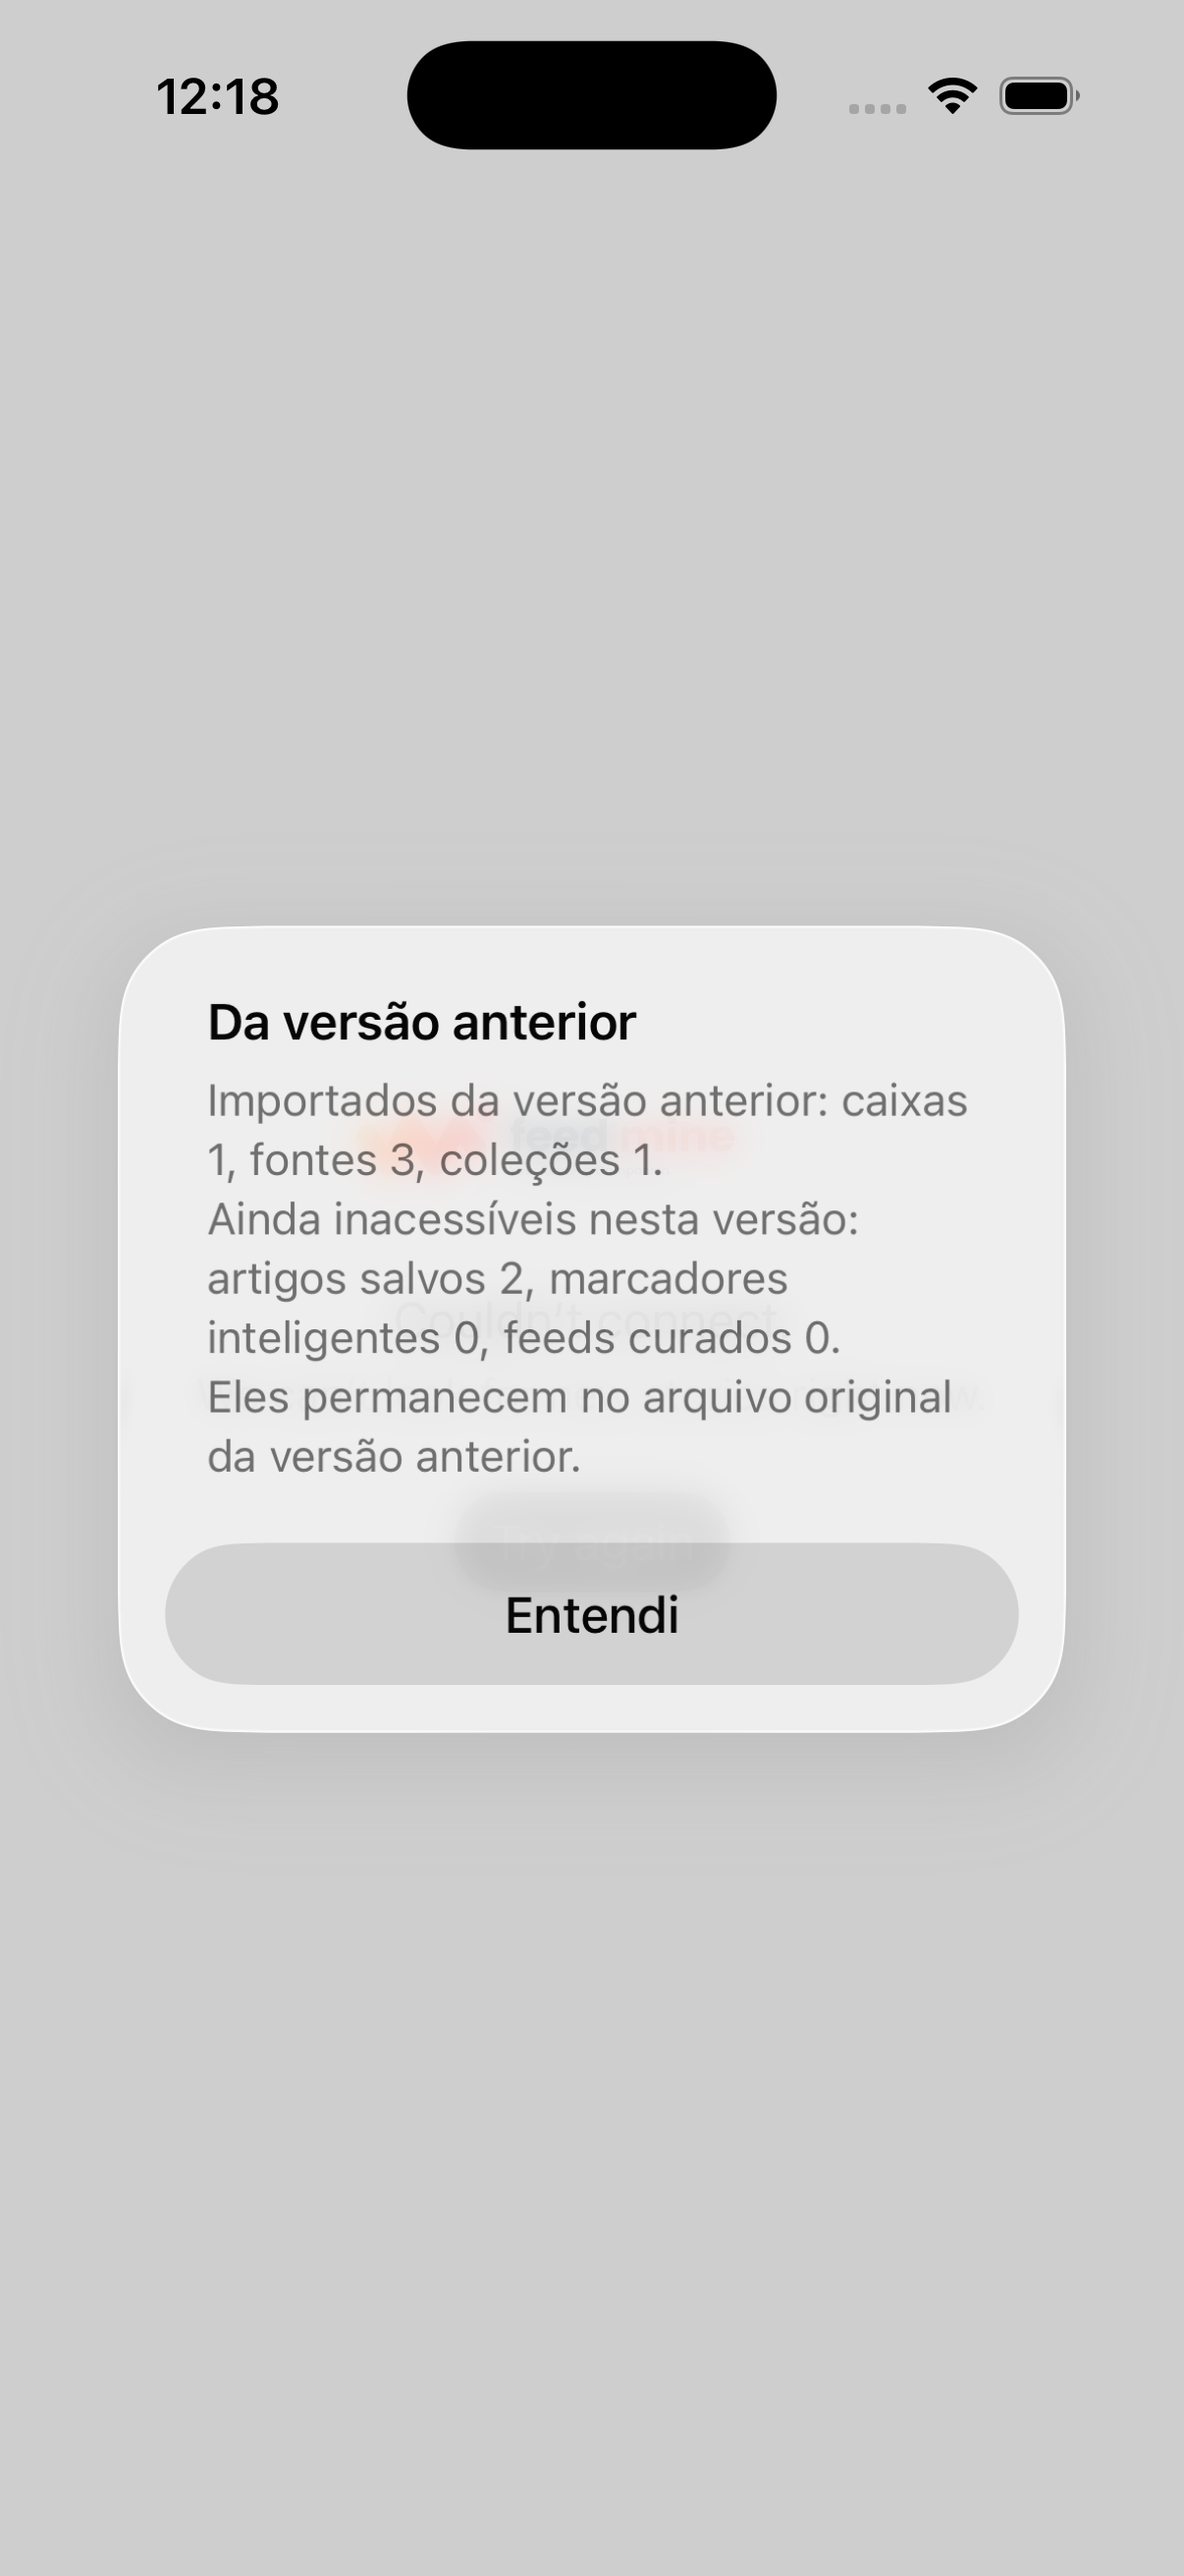
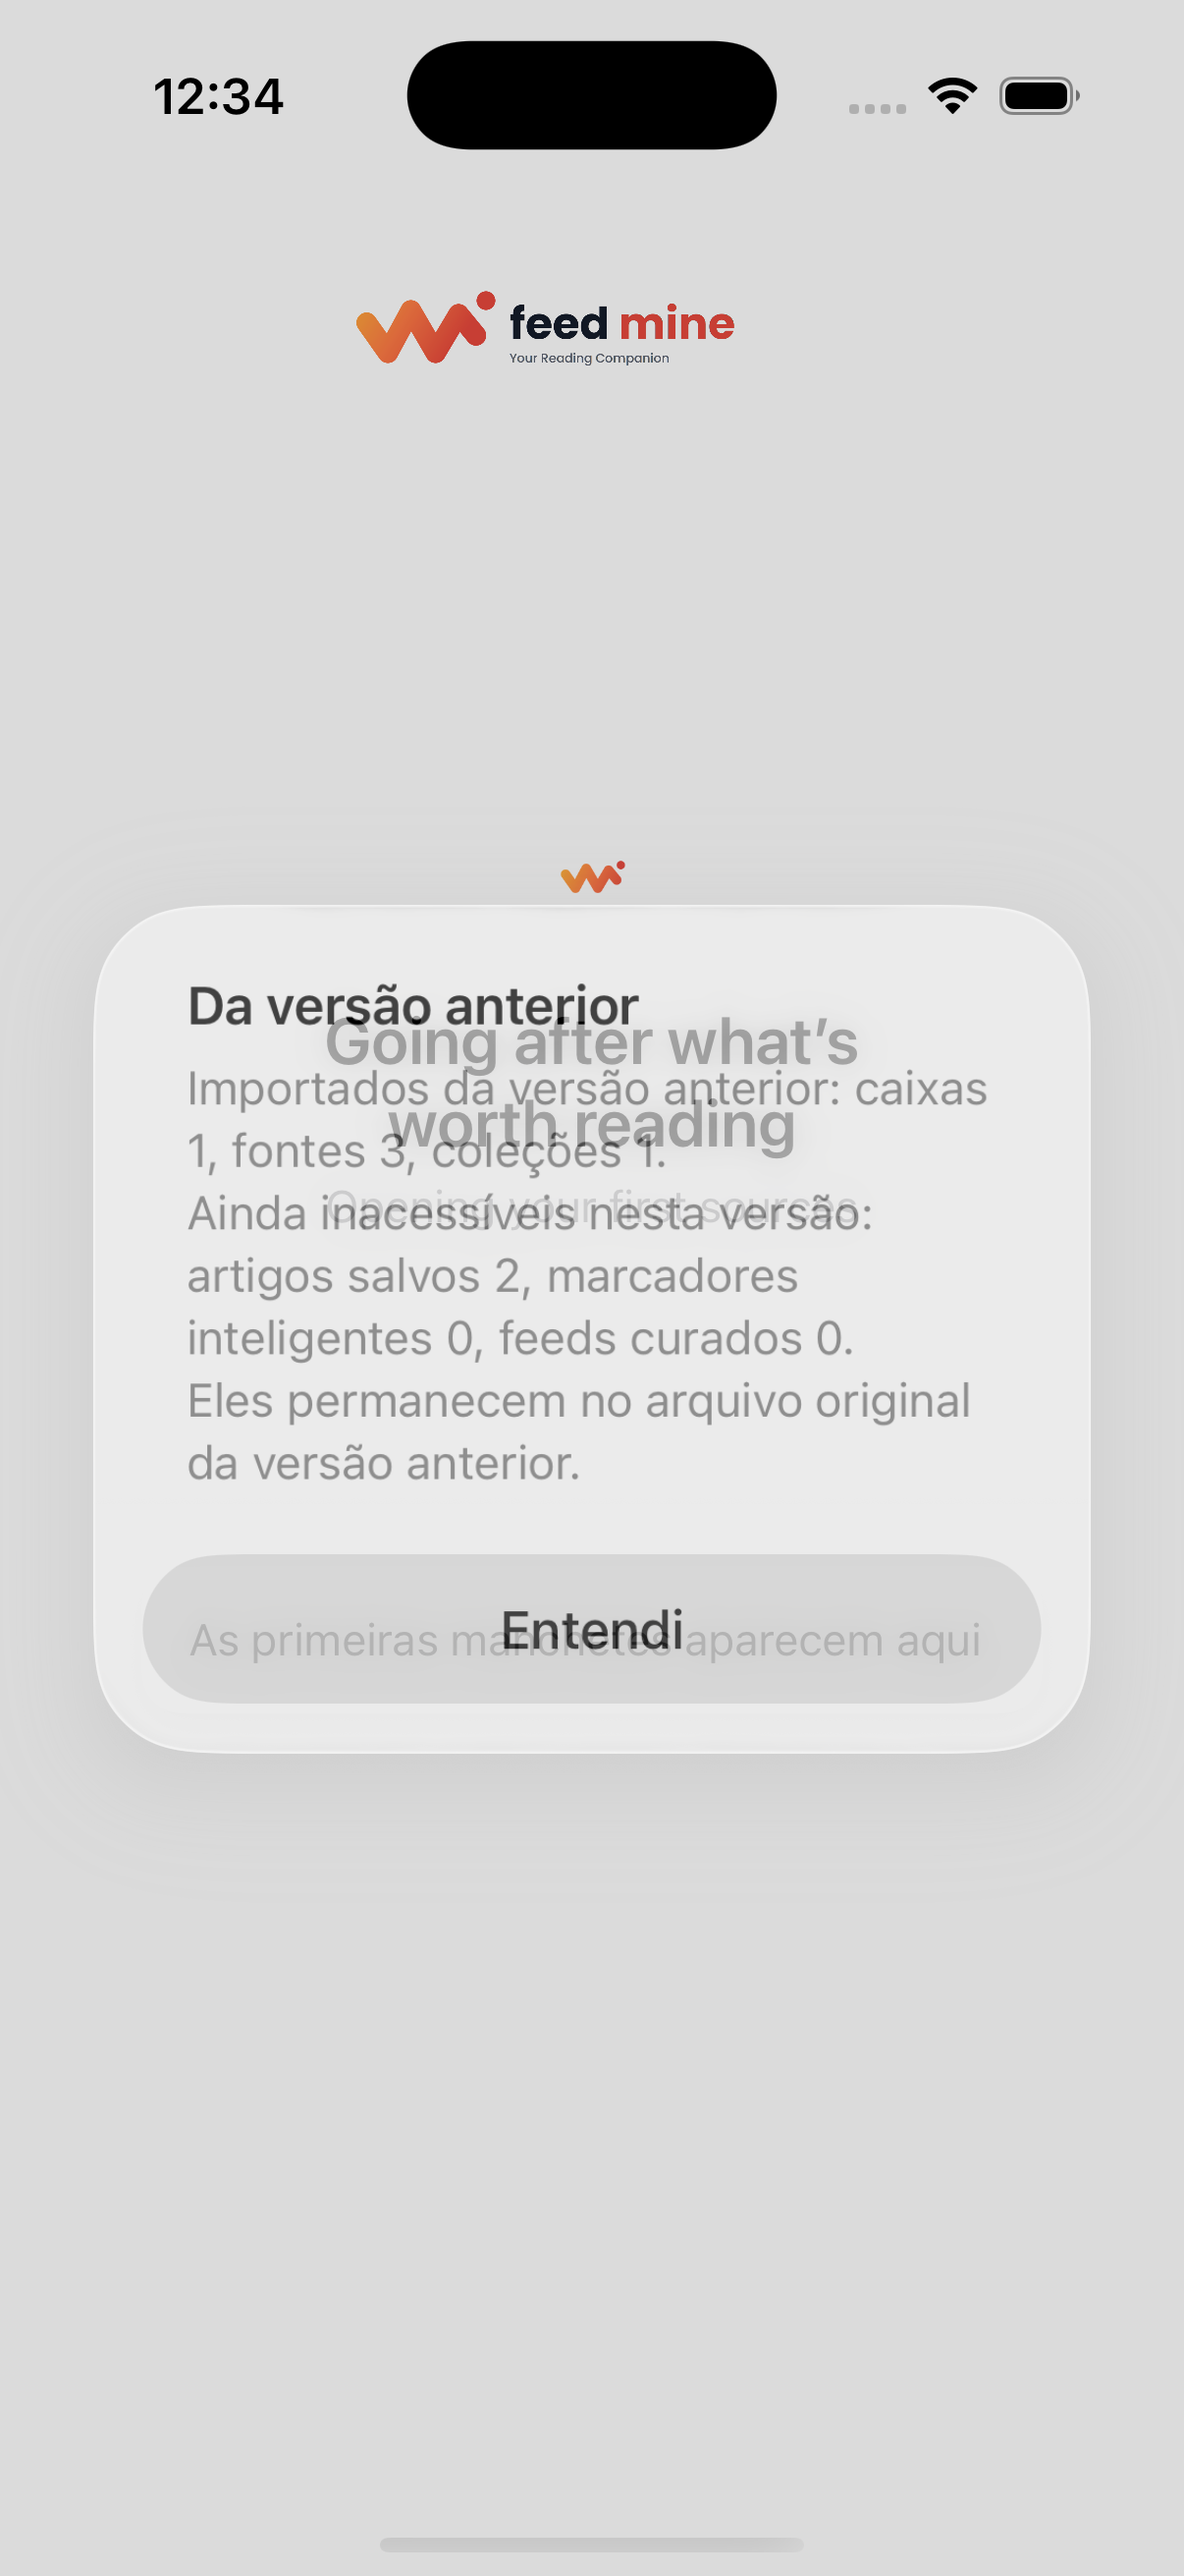
docs(evidence): run 4 of the D7-A rehearsal at 03fab3ab — store isolated correctly, notice still not retained or hittable
As specified, no workaround, clean tree. Volume probe: /tmp/Abc resolves as abc, so the volume is
case-insensitive; RuntimeDatabase therefore reused the existing Feedmine directory instead of creating
FeedMine, and no second store exists (one directory entry, one runtime.sqlite). Receipt completed —
boxes 1, sources 3 (2 selected), collections 1, members 2 — with source_path naming the sibling
Feedmine/user.sqlite; savedArticles skip 2; V1 files byte-identical; repeat launches change nothing.

The notice is now a UIKit alert and is drawn (screenshot + AX at 1.21 s and 2.0 s), but the reader's
surface paints over it, it is gone from ~0.9 s, and neither an AX press nor a calibrated window click
records the acknowledgement: notice_presented is 0 with no tap (correct) and 0 after the tap. No
workaround attempted beyond repeating the tap.

Changed region(s): [[0.0614, 0.3398, 0.9204, 0.6796], [0.3068, 0.0927, 0.6136, 0.1545], [0.1227, 0.0309, 0.2454, 0.0618]]

diff --git a/docs/reviews/evidence/2026-10-20-v1-upgrade/README.md b/docs/reviews/evidence/2026-10-20-v1-upgrade/README.md
@@ -1,88 +1,80 @@
 # V1 → V2 upgrade rehearsal (decision D7-A) — 2026-10-20
 
-Latest run: **`c7c850af`**, the as-specified layout, no rename, no move, no deletion. The store now opens
-inside V1's own `Application Support/Feedmine` directory and the upgrade runs; the notice is drawn but
-still cannot be acknowledged. Details below, with the two earlier runs kept as history.
+Latest run: **`03fab3ab`**, as-specified layout, no rename, no move, no deletion. The store opens inside
+V1's own `Feedmine` directory and the upgrade runs; the notice is drawn by UIKit but still does not
+survive and cannot be acknowledged. Runs 1–3 are kept below.
 
-## Run 3 — as specified, at `c7c850af` (this run)
+## Run 4 — as specified, at `03fab3ab` (this run)
 
 | step | result |
 |---|---|
-| V1 built from source, launched, container created | directory on disk **`Feedmine`** (V1's spelling) |
+| volume probe | `/tmp/Abc` resolves as `abc`, and the simulator's `Devices` directory likewise → **case-insensitive** |
+| V1 built from source, launched | directory on disk **`Feedmine`** (V1's spelling), container `845159A5…` |
 | seeded | `imported_source` 3 (one `enabled = 0`), `bookmark_list` 2, `bookmark_item` 2, `bookmark_snapshot` 2, `source_collection` 1, `source_collection_member` 2 |
-| V2 Release installed over `com.feedmine.app` | container `5008052D…` → `EEAF13CE…`; the data moves with it (all seven files hash-identically after the install) |
-| first launch | **no failure surface**: "Não foi possível carregar suas fontes." is gone. `runtime.sqlite`, `runtime.sqlite-wal` and `runtime.sqlite-shm` appear **inside `Application Support/Feedmine`**, beside `user.sqlite` |
-| receipt | `status completed`, `ran_at 1792523778.805289`, boxes **1**, sources **3**, selected **2**, collections **1**, members **2** |
-| `source_path` | `…/Application Support/Feedmine/user.sqlite` — the **sibling** candidate, V1's own directory, exactly as intended |
+| V2 Release installed over `com.feedmine.app` | container → `67A965C9…`; all seven V1 files hash-identically after the move |
+| first launch | no failure surface. `Application Support` holds **one** entry, `Feedmine`; inside it `runtime.sqlite`, `-wal`, `-shm` sit beside `user.sqlite`; `find … -name runtime.sqlite` → **1** |
+| receipt | `completed`, `ran_at 1792524829.018832`, boxes **1**, sources **3**, selected **2**, collections **1**, members **2** |
+| `source_path` | `…/Application Support/Feedmine/user.sqlite` — the sibling candidate |
 | skip | `savedArticles / notImportedInThisBuild / 2` |
-| V1 files | `before.sha256` → `after.sha256` identical for `user.sqlite` (`c3f08b44…`), `-wal` (empty), `-shm` (`fd4c9fda…`) |
-| second launch | `ran_at` and every count identical across ~10 launches; no duplicated row |
+| V1 files | identical (`user.sqlite 4ef31d75…`, `-wal` empty, `-shm fd4c9fda…`) |
+| repeat launches | `ran_at` and every count identical across ~6 launches, no duplicated row |
 
-Because the store and V1's database now share one directory, the upgrade no longer needs the
-case-collapsed candidate nor the Documents fallback: the sibling `Feedmine/user.sqlite` is what the
-receipt names.
+**Why the store opened inside `Feedmine`.** The exact spelling `FeedMine` cannot be created on this
+volume while `Feedmine` exists (the sandbox answered `NSCocoaErrorDomain 512` / `POSIX 5`, measured in
+run 2), and the volume reports itself case-insensitive — the probe above. `RuntimeDatabase` therefore
+took its gated fallback and reused the existing variant. No second store was created: the `FeedMine`
+path resolves to the same directory, which is why one `ls` entry and one `runtime.sqlite` are the whole
+inventory.
 
-### The notice: drawn, but behind the reader surface, and unacknowledgeable
+### The notice: drawn by UIKit, still not usable
 
-`run-3-application-support/notice-drawn.png` shows the alert with the exact copy; the AX tree carries
-"Da versão anterior" and the "Entendi" button. But `run-3-application-support/notice-behind-surface.png`
-(0.45 s after launch) shows the reader's own surface painted **over** the alert, and by 0.95 s the
-reader's "Try again" button sits on the same pixels as "Entendi". The alert fades within ~1 s.
+`run-4-volume-gated/notice-painted.png` shows the UIKit alert with the exact copy, and — in the same
+frame — the reader's own text painted over it ("Going after what's worth reading", "As primeiras
+manchetes aparecem aqui"). `ax(all: true)` lists the alert (title, body, "Entendi") at 1.21 s and again
+at 2.0 s.
 
-- Pointer clicks at the Entendi bar, calibrated from those frames and issued at eight moments between
-  0.18 s and 1.22 s after launch, all landed on "Try again" (click delivery itself was verified: a click
-  there does restart the load).
-- `win.find("Entendi")` returned no element in a 22 s AX poll at 0.1 s intervals.
-- `notice_presented` stayed **0** throughout: nothing was acknowledged, and nothing was recorded without
-  a tap either.
+But the screen at ≥2 s has no alert: `run-4-volume-gated/no-alert-at-5s-no-tap.png` (≈5 s, no tap) and
+`…-second-shot.png` (≈8 s) show only the reader's "Couldn't connect.". The burst after launch shows the
+alert painted at ~0.3–0.6 s and gone from ~0.9 s.
 
-Acceptance "the reader sees the notice and dismisses it, with the flag flipping only on that tap" is
-**not met**: seeing is proven, dismissing is not reachable while the alert is below the content.
+The flag behaves correctly in one direction and not the other: `notice_presented` = **0** on a launch
+with no tap, and still **0** after an AX press on "Entendi" at 1.21 s and a calibrated window click at
+0.35 s. The tap never reaches the button.
+
+Acceptance "the alert stays ≥2 s, Entendi is hittable and the flag flips only on that tap" is **not
+met**: the flag does not flip without a tap (right), and it does not flip with one either, because the
+presentation is short-lived and under the reader's layer.
 
 ## History
 
-### Run 2 — `3a1f72a7`, as-specified attempted, blocked before the upgrade
-
-V1's `Feedmine` existed; V2's `RuntimeDatabase` asked for `FeedMine` and the app sandbox refused:
-`fileExists("…/Feedmine/user.sqlite")` = true, `fileExists("…/FeedMine")` = false,
-`createDirectory("…/FeedMine")` → `NSCocoaErrorDomain 512` / `NSPOSIXErrorDomain 5` (EIO). The app showed
-"Não foi possível carregar suas fontes." and wrote nothing. The container UUID changed on install, but
-the data hashed identically across the move, so the container was not the cause. Full record:
-`run-a-as-specified.txt`, `run-a-lldb-filesystem.log`, `run-a-as-specified-failure.png`.
-
-The upgrade itself was then proven through the case-collapsed shape (V2's `FeedMine` holding the store
-and V1's `user.sqlite`), with `source_path` naming `applicationSupport/user.sqlite`. That is the run whose
-notice first appeared; it lived ~1 s and was torn down by the reader swap.
-
-### Run 1 — first rehearsal (git `e98e47dc`)
-
-Same blocker, not yet measured precisely; the upgrade was run through `Documents/user.sqlite`, V2's other
-documented candidate. Its artifacts are in git at `e98e47dc`; only the V1 screenshot is kept locally in
-`rehearsal-1-documents/`.
+- **Run 3 (`c7c850af`)** — store opened inside `Feedmine` and the upgrade ran, but the SwiftUI alert was
+  painted behind the reader surface, visible under a second, with every calibrated click landing on
+  "Try again". `run-3-application-support/`.
+- **Run 2 (`3a1f72a7`)** — as-specified blocked before the upgrade: `createDirectory("…/FeedMine")` →
+  `NSCocoaErrorDomain 512` / `POSIX 5` while `Feedmine` existed; the upgrade was then proven through the
+  case-collapsed shape. `run-a-as-specified.txt`, `run-a-lldb-*.log`, `run-a-as-specified-failure.png`.
+- **Run 1 (`e98e47dc`)** — same blocker, unmeasured; the upgrade ran through `Documents/user.sqlite`.
+  Artifacts remain in git; `rehearsal-1-documents/` keeps the screenshot.
 
 ## What was built
 
 | | source | result |
 |---|---|---|
-| V1 | `_legacy_feedmine_v1`, `feedmine.xcodeproj` scheme `feedmine`, Debug / iphonesimulator | BUILD SUCCEEDED |
-| V2 | product worktree HEAD `c7c850af`, `FeedMineApp/FeedMineApp.xcodeproj` scheme `FeedMine`, **Release** | BUILD SUCCEEDED |
+| V1 | `_legacy_feedmine_v1`, scheme `feedmine`, Debug / iphonesimulator | BUILD SUCCEEDED |
+| V2 | product worktree HEAD `03fab3ab`, scheme `FeedMine`, **Release** | BUILD SUCCEEDED |
 
-V2 Release keeps `com.feedmine.app`, so it installs into V1's container. The product tree was dirty with
-a sibling's in-flight work (16 files: `PublicationStore*`, `RuntimeMigrations`, `PublicationCardDraft`,
-`PublicationCoordinator`, `PresentationCard`, `PublicationPreparation`, `FeedItemCardView`,
-`FeedItemRowView`, two test files, `AppComposition.swift`, and the untracked
-`FeedMediaJourneyUITests.swift`); the Release binary was built from that tree. None of those edits touch
-the upgrade path or the notice.
+V2 Release keeps `com.feedmine.app` so it installs into V1's container. The working tree was **clean**
+at build time — this binary is exactly `03fab3ab`.
 
-V1's database was created by V1's own binary (`v1_bookmarks … v11_user_operation`) and then seeded with
+V1's database was created by V1's own binary (`v1_bookmarks … v11_user_operation`) and seeded with
 `sqlite3` using V1's shipped DDL and only the columns the V2 reader selects
-(`Sources/FeedMinePersistence/LegacyUserStateReader.swift`). No table was invented.
+(`Sources/FeedMinePersistence/LegacyUserStateReader.swift`).
 
-## Result detail (Run 3)
+## Result detail (Run 4)
 
 | category | V1 had | V2 has |
 |---|---|---|
-| personal sources | 3 (one disabled) | 3 rows — `…/ciencia/feed.xml`, `…/tecnologia/feed`, `…/arquivo/feed`; the two enabled ones are in the selection, the disabled one is preserved and not selected |
+| personal sources | 3 (one disabled) | 3 rows — `…/ciencia/feed.xml`, `…/tecnologia/feed`, `…/arquivo/feed`; the two enabled ones are selected, the disabled one preserved and not selected |
 | browser boxes | default `Favorites` + `Leituras longas` | `saved` (V2's own default) + `v1:list:2` "Leituras longas"; the default is not duplicated; `reader_bookmark_memberships` = 0 because saved articles are not imported in this build |
 | collections | 1 with 2 members | `v1:collection:1` "Ciência e Tecnologia" with 2 memberships, keyed by V1's `source_identity` |
 
@@ -90,25 +82,24 @@ V1's database was created by V1's own binary (`v1_bookmarks … v11_user_operati
 
 | file | what |
 |---|---|
-| `before.sha256` / `after.sha256` / `diff.txt` | V1's files before and after Run 3 |
-| `receipt.json` | raw `sqlite3 -json`: receipt, skips, counts, sources, boxes, collections, members, container UUIDs |
-| `notice.txt` | the alert's AX tree, the exact copy, and the measurements showing it cannot be dismissed |
-| `screenshot.png` | the alert as drawn (Run 3) |
-| `run-3-application-support/` | the alert frame and the frame showing the reader surface painted over it |
-| `run-a-as-specified.txt`, `run-a-*.png`, `run-a-lldb-*.log` | Run 2's blocked attempt, with the measured EIO |
-| `case-collision-lldb.log` | Run 1's in-app filesystem probe |
+| `before.sha256` / `after.sha256` / `diff.txt` | V1's files before and after Run 4 |
+| `receipt.json` | raw queries: receipt, skips, counts, sources, boxes, collections, members, container UUIDs, volume probe, store inventory |
+| `notice.txt` | the alert's copy and AX tree, the 2 s screen, and the flag values with and without a tap |
+| `screenshot.png` | the UIKit alert as drawn (Run 4) |
+| `run-4-volume-gated/` | alert painted, and the 5 s / 8 s frames with no alert |
+| `run-3-application-support/`, `run-a-*`, `case-collision-lldb.log` | the earlier runs' evidence |
 | `rehearsal-1-documents/` | the only Run 1 artifact kept locally |
-| `commands.txt` | every command of Run 3 |
+| `commands.txt` | every command of Run 4 |
 
 ## What this does NOT prove
 
-- **Not the notice's acceptance.** It is drawn but sits below the reader surface; no tap reaches it and
-  `notice_presented` never becomes 1. Nothing here shows a second launch after an acknowledgement.
-- **Not real users' V1 databases.** One synthetic database seeded to the shapes the reader selects: no
-  unusual schema, corrupt file, permission case or large library.
-- **Not a device or an iOS upgrade path.** Simulator only, iOS 26.5, no signing, no App Store install-over,
-  no real-device filesystem.
+- **Not the notice's acceptance.** It is drawn but not retained and not hittable; no tap is recorded and
+  no second launch after an acknowledgement exists.
+- **Not a phone.** The simulator volume is case-insensitive, so the fallback ran; on a device the two
+  spellings are distinct directories and this run says nothing about that path. The gated fallback's
+  "exact spelling wins on a case-sensitive volume" branch is untested here.
+- **Not real users' V1 databases.** One synthetic database seeded to the shapes the reader selects.
+- **Not an iOS upgrade path.** No signing, no App Store install-over, no earlier OS.
 - **Not the declined data.** Saved articles (2), smart feeds and curated feeds are reported, not imported.
-- **Not concurrency or interruption.** One import, then relaunches; no kill during the import, no
-  crash-restart, no partial write.
+- **Not concurrency or interruption.** One import, then relaunches.
 - **Not the other runtime categories** (feed content, editions, media, session checkpoints).
